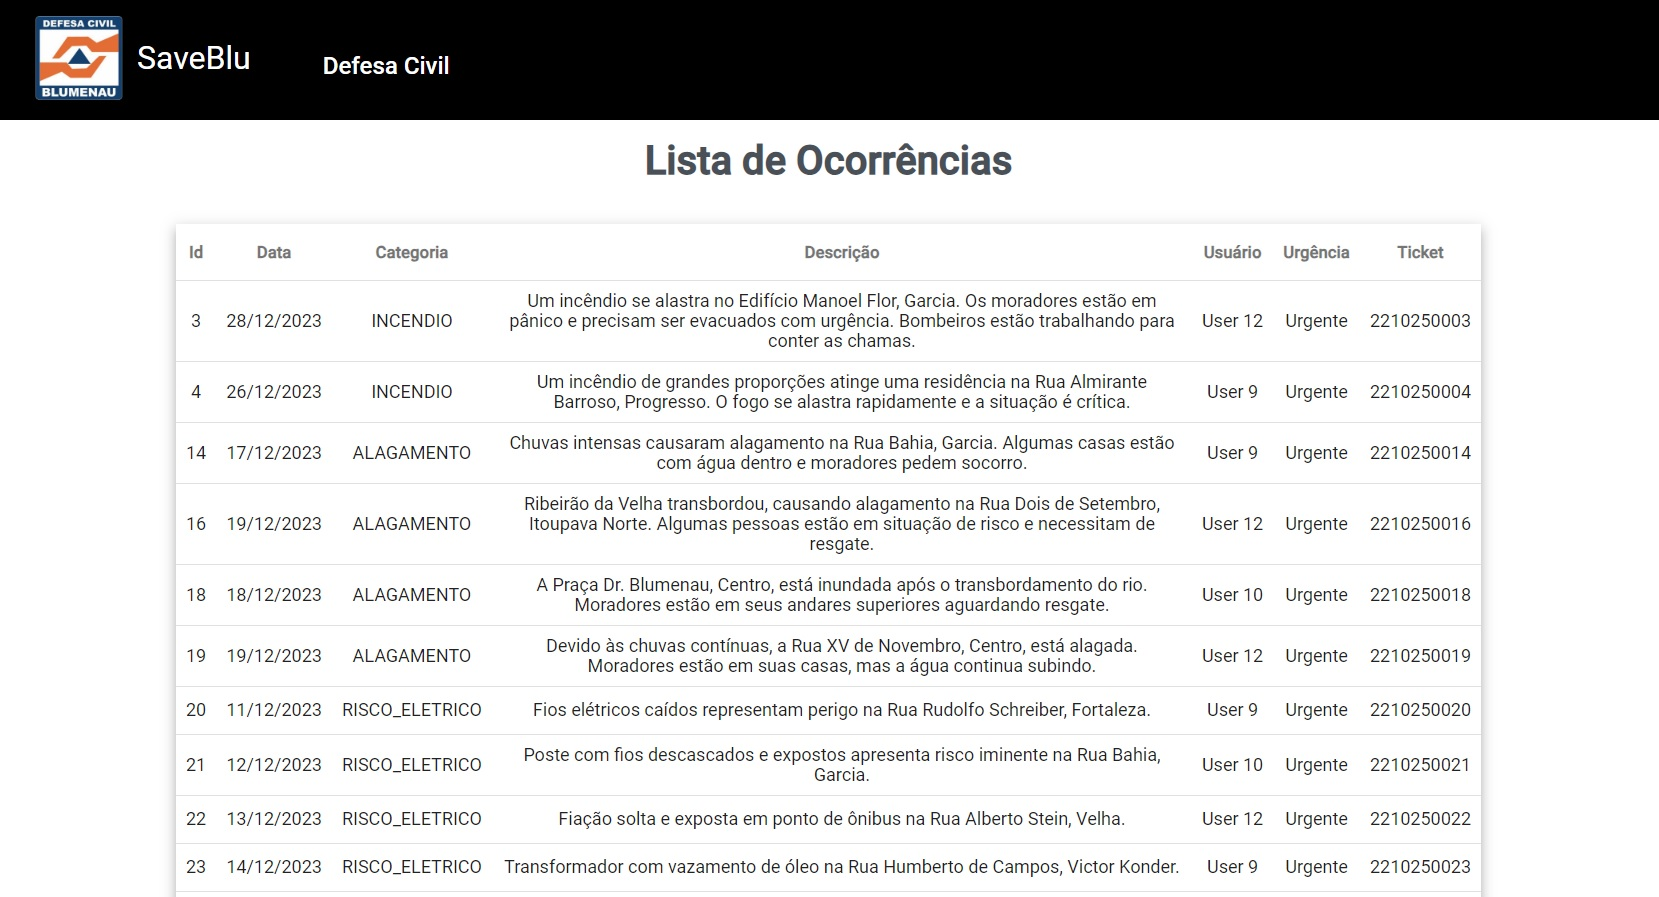
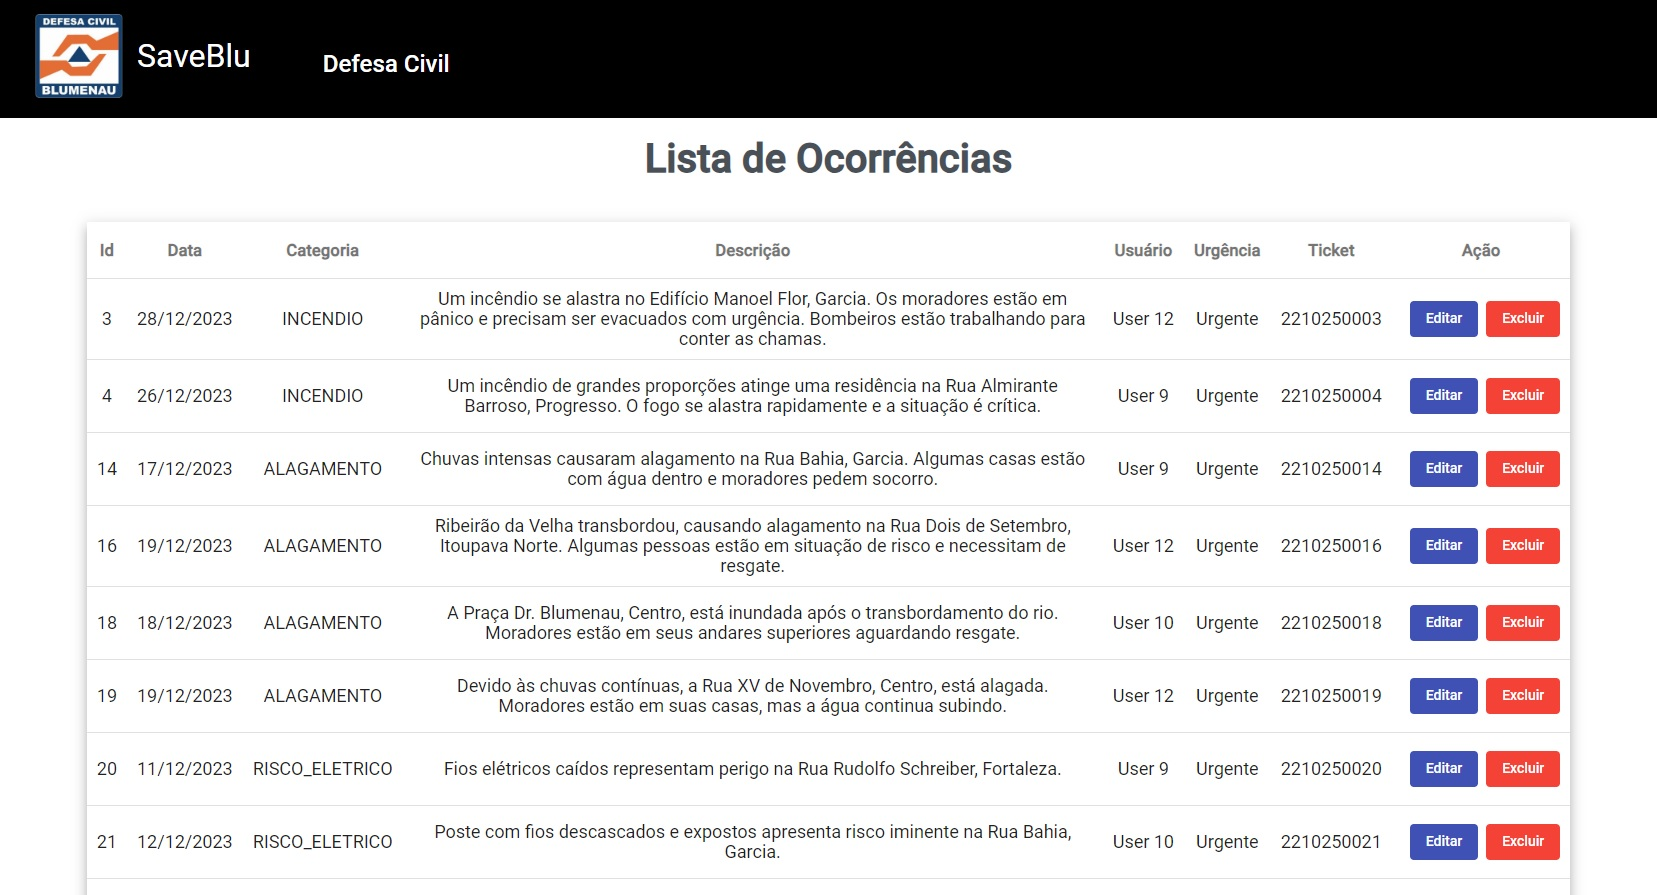
Update e Delete Incidence Dialog implementados

diff --git a/src/app/components/civil-defense/update-incidence-dialog/update-incidence-dialog.component.html b/src/app/components/civil-defense/update-incidence-dialog/update-incidence-dialog.component.html
@@ -1,0 +1,48 @@
+<h1 mat-dialog-title class="text-dark-emphasis">Editar Ocorrência</h1>
+
+<div mat-dialog-content>
+         <!-- chamar  o formulário de Incidence -->
+  <form [formGroup]="formIncidence" class="row">
+      <!-- formControlName = algum atributo que foi construído para o formulário  -->
+      <input matInput type="id" [ngModel]="data.id" formControlName="id" id="id" [required]="true" hidden="true">
+
+      <mat-form-field class="col-sm-12">
+          <mat-label for="date">Data:</mat-label>
+          <input matInput type="text" formControlName="date" id="date" [ngModel]="formatDate(data.date)" [required]="true" [readonly]="true">
+      </mat-form-field>
+
+      <mat-form-field class="col-sm-12">
+        <mat-label for="category">Categoria:</mat-label>
+        <input matInput type="text" formControlName="category" id="category" [ngModel]="data.category" [required]="true" [readonly]="true">
+      </mat-form-field>
+
+      <mat-form-field class="col-sm-12">
+        <mat-label for="description">Descrição:</mat-label>
+        <input matInput type="text" formControlName="description" id="description" [ngModel]="data.description" [required]="true" [readonly]="true">
+      </mat-form-field>
+
+      <mat-form-field class="col-sm-12">
+        <mat-label for="user">Usuário:</mat-label>
+        <input matInput type="text" formControlName="user" id="user" [ngModel]="data.user.name" [required]="true" [readonly]="true">
+      </mat-form-field>
+
+      <mat-form-field class="col-sm-12">
+        <mat-label for="urgent">Urgência:</mat-label>
+        <mat-select formControlName="urgent" [required]="true" [ngModel]="data.urgent" [required]="true">
+            <mat-option [value]="true">Urgente</mat-option>
+            <mat-option [value]="false">Não Urgente</mat-option>
+        </mat-select>
+    </mat-form-field>
+
+    <mat-form-field class="col-sm-12">
+      <mat-label for="ticket">Ticket:</mat-label>
+      <input matInput type="text" formControlName="ticket" id="usticketer" [ngModel]="data.ticket" [required]="true" [readonly]="true">
+    </mat-form-field>
+
+    <!-- Componente Button do Angular Material -->
+    <div class="col-sm-8">
+      <button mat-raised-button color="primary" class="m-lg-2" (click)="updateIncidence()">Atualizar</button>
+      <button mat-raised-button color="warn" (click)="closeDialog()">Cancelar</button>
+    </div>
+  </form>
+</div>

diff --git a/src/app/components/civil-defense/civil-defense.component.ts b/src/app/components/civil-defense/civil-defense.component.ts
@@ -1,6 +1,9 @@
 import { Component, OnInit } from '@angular/core';
+import { MatDialog } from '@angular/material/dialog';
 import { IncidenceModel } from 'src/app/@core/models/incidence-model.model';
 import { IncidenceService } from 'src/app/@core/services/incidence.service';
+import { DeleteIncidenceDialogComponent } from './delete-incidence-dialog/delete-incidence-dialog.component';
+import { UpdateIncidenceDialogComponent } from './update-incidence-dialog/update-incidence-dialog.component';
 
 
 @Component({
@@ -15,7 +18,7 @@ export class CivilDefenseComponent implements OnInit {
   // Lista de funcionários cadastrados do servidor em produção
   public incidenceModelList: IncidenceModel[] = [];
 
-  constructor(private service: IncidenceService) {
+  constructor(private service: IncidenceService, public dialog: MatDialog) {
 
   }
 
@@ -26,6 +29,42 @@ export class CivilDefenseComponent implements OnInit {
   listIncidences(): void {
     this.service.listIncidences().subscribe((data) => {
       this.incidenceModelList = data;
+    });
+  }
+
+  // Abri caixa de diálogo
+  deleteIncidence(element: IncidenceModel): void {
+    // Pega os atributos do elemento e injeta na caixa de diálogo
+    this.dialog.open(DeleteIncidenceDialogComponent, {
+      width: '400px',
+      data: {
+        id: element.id,
+        date: element.date,
+        category: element.category,
+        description: element.description,
+        user: element.user,
+        image: element.image,
+        urgent: element.urgent,
+        ticket: element.ticket
+      },
+    });
+  }
+
+  // Abri caixa de diálogo
+  updateIncidence(element: IncidenceModel): void {
+    // Pega os atributos do elemento e injeta na caixa de diálogo
+    this.dialog.open(UpdateIncidenceDialogComponent, {
+      width: '400px',
+      data: {
+        id: element.id,
+        date: element.date,
+        category: element.category,
+        description: element.description,
+        user: element.user,
+        image: element.image,
+        urgent: element.urgent,
+        ticket: element.ticket
+      },
     });
   }
 

diff --git a/src/app/components/civil-defense/update-incidence-dialog/update-incidence-dialog.component.ts b/src/app/components/civil-defense/update-incidence-dialog/update-incidence-dialog.component.ts
@@ -1,0 +1,53 @@
+import { Component, Inject, OnInit } from '@angular/core';
+import { FormBuilder, FormGroup } from '@angular/forms';
+import { MAT_DIALOG_DATA, MatDialogRef } from '@angular/material/dialog';
+import { IncidenceModel } from 'src/app/@core/models/incidence-model.model';
+import { IncidenceService } from 'src/app/@core/services/incidence.service';
+
+@Component({
+  selector: 'app-update-incidence-dialog',
+  templateUrl: './update-incidence-dialog.component.html',
+  styleUrls: ['./update-incidence-dialog.component.scss']
+})
+export class UpdateIncidenceDialogComponent implements OnInit {
+  public formIncidence: FormGroup;
+
+  constructor(@Inject(MAT_DIALOG_DATA) public data: IncidenceModel, public dialogRef: MatDialogRef<UpdateIncidenceDialogComponent>,
+  private service: IncidenceService, private formBuilder: FormBuilder) {
+    // 1- chamar o atributo do formulário
+    // 2- construir os atributos do formulário
+    this.formIncidence = this.formBuilder.group({
+      // inputs(atributos) do nosso formulário
+      id: 0,
+      date: '',
+      category: '',
+      description: '',
+      user: '',
+      urgent: '',
+      ticket: ''
+    });
+  }
+
+  ngOnInit(): void {
+  }
+
+  updateIncidence(): void {
+
+    this.closeDialog();
+  }
+
+  // Fecha a caixa de diálogo
+  closeDialog() {
+    this.dialogRef.close();
+  }
+
+  formatDate(date: string): string {
+    const dateParts = date.split('-'); // Divide a data em ano, mês e dia
+    if (dateParts.length === 3) {
+      const [year, month, day] = dateParts;
+      return `${day}/${month}/${year}`;
+    } else {
+      return date; // Se a data não estiver no formato esperado, retorne a data original
+    }
+  }
+}

diff --git a/src/app/components/civil-defense/delete-incidence-dialog/delete-incidence-dialog.component.ts b/src/app/components/civil-defense/delete-incidence-dialog/delete-incidence-dialog.component.ts
@@ -1,0 +1,47 @@
+import { Component, Inject, OnInit } from '@angular/core';
+import { MAT_DIALOG_DATA, MatDialogRef } from '@angular/material/dialog';
+import { IncidenceModel } from 'src/app/@core/models/incidence-model.model';
+import { IncidenceService } from 'src/app/@core/services/incidence.service';
+
+@Component({
+  selector: 'app-delete-incidence-dialog',
+  templateUrl: './delete-incidence-dialog.component.html',
+  styleUrls: ['./delete-incidence-dialog.component.scss']
+})
+export class DeleteIncidenceDialogComponent implements OnInit {
+
+  constructor(@Inject(MAT_DIALOG_DATA) public data: IncidenceModel,
+  public dialogRef: MatDialogRef<DeleteIncidenceDialogComponent>, private service: IncidenceService) { }
+
+  ngOnInit(): void {
+  }
+
+  deleteIncidence(id: number): void {
+
+
+    this.closeDialog();
+  }
+
+  // Fecha a caixa de diálogo
+  closeDialog() {
+    this.dialogRef.close();
+  }
+
+  isUrgent(urgency: boolean): string {
+    if (urgency === true) {
+      return 'Urgente'
+    } else {
+      return 'Não Urgente'
+    }
+  }
+
+  formatDate(date: string): string {
+    const dateParts = date.split('-'); // Divide a data em ano, mês e dia
+    if (dateParts.length === 3) {
+      const [year, month, day] = dateParts;
+      return `${day}/${month}/${year}`;
+    } else {
+      return date; // Se a data não estiver no formato esperado, retorne a data original
+    }
+  }
+}

diff --git a/src/app/components/civil-defense/civil-defense.module.ts b/src/app/components/civil-defense/civil-defense.module.ts
@@ -4,6 +4,8 @@ import { DesignImportsModule } from 'src/app/shared/design-imports/design-import
 import { CivilDefenseRoutingModule } from './civil-defense-routing.module';
 import { CivilDefenseComponent } from './civil-defense.component';
 import { HttpClientModule } from '@angular/common/http';
+import { DeleteIncidenceDialogModule } from './delete-incidence-dialog/delete-incidence-dialog.module';
+import { UpdateIncidenceDialogModule } from './update-incidence-dialog/update-incidence-dialog.module';
 
 
 
@@ -15,7 +17,9 @@ import { HttpClientModule } from '@angular/common/http';
     CommonModule,
     DesignImportsModule,
     CivilDefenseRoutingModule,
-    HttpClientModule
+    HttpClientModule,
+    DeleteIncidenceDialogModule,
+    UpdateIncidenceDialogModule
   ]
 })
 export class CivilDefenseModule { }

diff --git a/src/app/components/civil-defense/delete-incidence-dialog/delete-incidence-dialog.component.spec.ts b/src/app/components/civil-defense/delete-incidence-dialog/delete-incidence-dialog.component.spec.ts
@@ -1,0 +1,25 @@
+import { ComponentFixture, TestBed } from '@angular/core/testing';
+
+import { DeleteIncidenceDialogComponent } from './delete-incidence-dialog.component';
+
+describe('DeleteIncidenceDialogComponent', () => {
+  let component: DeleteIncidenceDialogComponent;
+  let fixture: ComponentFixture<DeleteIncidenceDialogComponent>;
+
+  beforeEach(async () => {
+    await TestBed.configureTestingModule({
+      declarations: [ DeleteIncidenceDialogComponent ]
+    })
+    .compileComponents();
+  });
+
+  beforeEach(() => {
+    fixture = TestBed.createComponent(DeleteIncidenceDialogComponent);
+    component = fixture.componentInstance;
+    fixture.detectChanges();
+  });
+
+  it('should create', () => {
+    expect(component).toBeTruthy();
+  });
+});

diff --git a/src/app/components/civil-defense/update-incidence-dialog/update-incidence-dialog.component.spec.ts b/src/app/components/civil-defense/update-incidence-dialog/update-incidence-dialog.component.spec.ts
@@ -1,0 +1,25 @@
+import { ComponentFixture, TestBed } from '@angular/core/testing';
+
+import { UpdateIncidenceDialogComponent } from './update-incidence-dialog.component';
+
+describe('UpdateIncidenceDialogComponent', () => {
+  let component: UpdateIncidenceDialogComponent;
+  let fixture: ComponentFixture<UpdateIncidenceDialogComponent>;
+
+  beforeEach(async () => {
+    await TestBed.configureTestingModule({
+      declarations: [ UpdateIncidenceDialogComponent ]
+    })
+    .compileComponents();
+  });
+
+  beforeEach(() => {
+    fixture = TestBed.createComponent(UpdateIncidenceDialogComponent);
+    component = fixture.componentInstance;
+    fixture.detectChanges();
+  });
+
+  it('should create', () => {
+    expect(component).toBeTruthy();
+  });
+});

diff --git a/src/app/components/civil-defense/delete-incidence-dialog/delete-incidence-dialog.component.html b/src/app/components/civil-defense/delete-incidence-dialog/delete-incidence-dialog.component.html
@@ -1,0 +1,28 @@
+<h1 mat-dialog-title class="text-dark-emphasis">Excluir Ocorrência?</h1>
+
+<div mat-dialog-content class="d-flex">
+  <ul>
+    <li>
+      Data: {{formatDate(data.date)}}
+    </li>
+    <li>
+      Categoria: {{data.category}}
+    </li>
+    <li>
+      Descrição: {{data.description}}
+    </li>
+    <li>
+      Usuário: {{data.user.name}}
+    </li>
+    <li>
+      Urgência: {{isUrgent(data.urgent)}}
+    </li>
+    <li>
+      Ticket: {{data.ticket}}
+    </li>
+    <li>
+      <button mat-raised-button color="warn" class="m-lg-2" (click)="deleteIncidence(data.id)">Excluir</button>
+      <button mat-raised-button color="primary" (click)="closeDialog()">Cancelar</button>
+    </li>
+  </ul>
+</div>

diff --git a/src/app/components/civil-defense/civil-defense.component.html b/src/app/components/civil-defense/civil-defense.component.html
@@ -53,8 +53,8 @@
     <ng-container matColumnDef="action">
       <th mat-header-cell *matHeaderCellDef class="text-center"> Ação </th>
       <td mat-cell *matCellDef="let element" class="text-center">
-        <button mat-flat-button color="primary" class="m-lg-2">Editar</button>
-        <button mat-flat-button color="warn">Excluir</button>
+        <button mat-flat-button color="primary" class="m-lg-2" (click)="updateIncidence(element)">Editar</button>
+        <button mat-flat-button color="warn" (click)="deleteIncidence(element)">Excluir</button>
       </td>
     </ng-container>
 

diff --git a/src/app/components/civil-defense/update-incidence-dialog/update-incidence-dialog.module.ts b/src/app/components/civil-defense/update-incidence-dialog/update-incidence-dialog.module.ts
@@ -1,0 +1,20 @@
+import { NgModule } from '@angular/core';
+import { CommonModule } from '@angular/common';
+import { UpdateIncidenceDialogComponent } from './update-incidence-dialog.component';
+import { DesignImportsModule } from 'src/app/shared/design-imports/design-imports.module';
+import { ReactiveFormsModule, FormsModule } from '@angular/forms';
+
+
+
+@NgModule({
+  declarations: [
+    UpdateIncidenceDialogComponent
+  ],
+  imports: [
+    CommonModule,
+    DesignImportsModule,
+    ReactiveFormsModule,
+    FormsModule
+  ]
+})
+export class UpdateIncidenceDialogModule { }

diff --git a/src/app/components/civil-defense/delete-incidence-dialog/delete-incidence-dialog.module.ts b/src/app/components/civil-defense/delete-incidence-dialog/delete-incidence-dialog.module.ts
@@ -1,0 +1,17 @@
+import { NgModule } from '@angular/core';
+import { CommonModule } from '@angular/common';
+import { DeleteIncidenceDialogComponent } from './delete-incidence-dialog.component';
+import { DesignImportsModule } from 'src/app/shared/design-imports/design-imports.module';
+
+
+
+@NgModule({
+  declarations: [
+    DeleteIncidenceDialogComponent
+  ],
+  imports: [
+    CommonModule,
+    DesignImportsModule
+  ]
+})
+export class DeleteIncidenceDialogModule { }

diff --git a/src/app/app.module.ts b/src/app/app.module.ts
@@ -5,7 +5,6 @@ import { AppComponent } from './app.component';
 import { HeaderModule } from './components/header/header.module';
 import { NgbModule } from '@ng-bootstrap/ng-bootstrap';
 import { BrowserAnimationsModule } from '@angular/platform-browser/animations';
-import { CivilDefenseComponent } from './components/civil-defense/civil-defense.component';
 
 @NgModule({
   declarations: [
